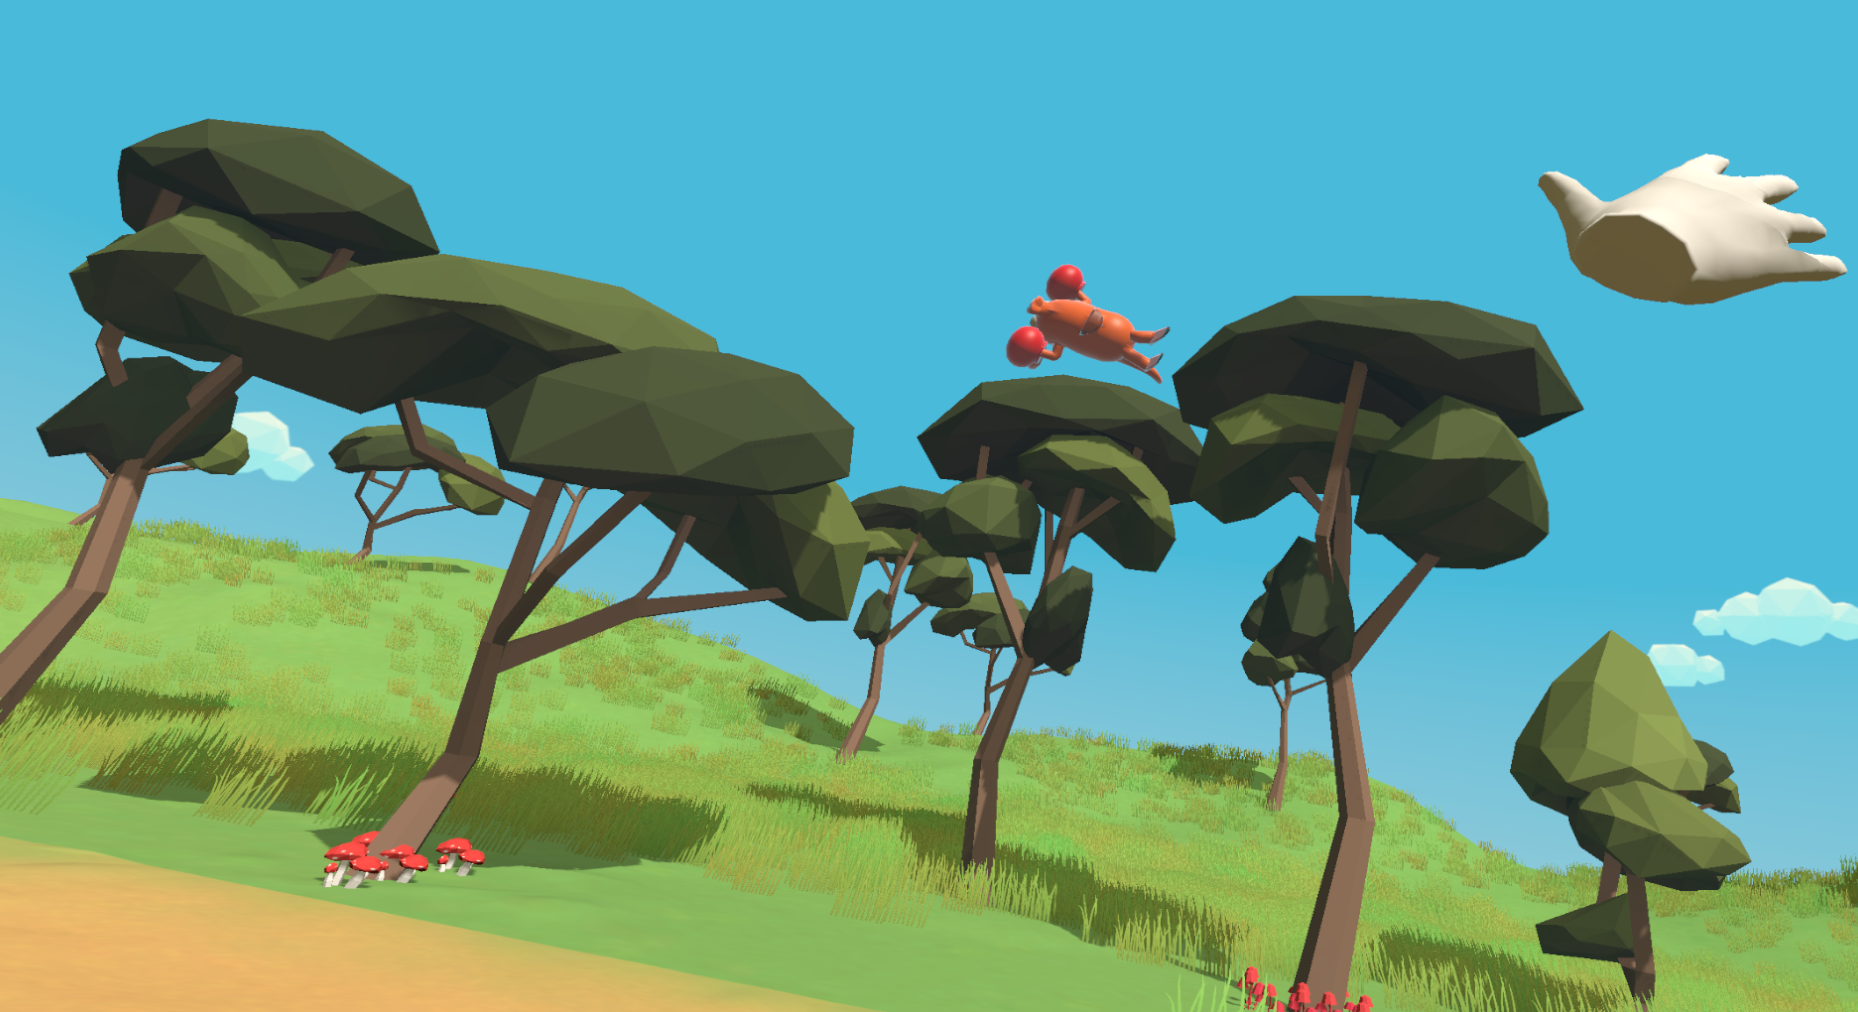
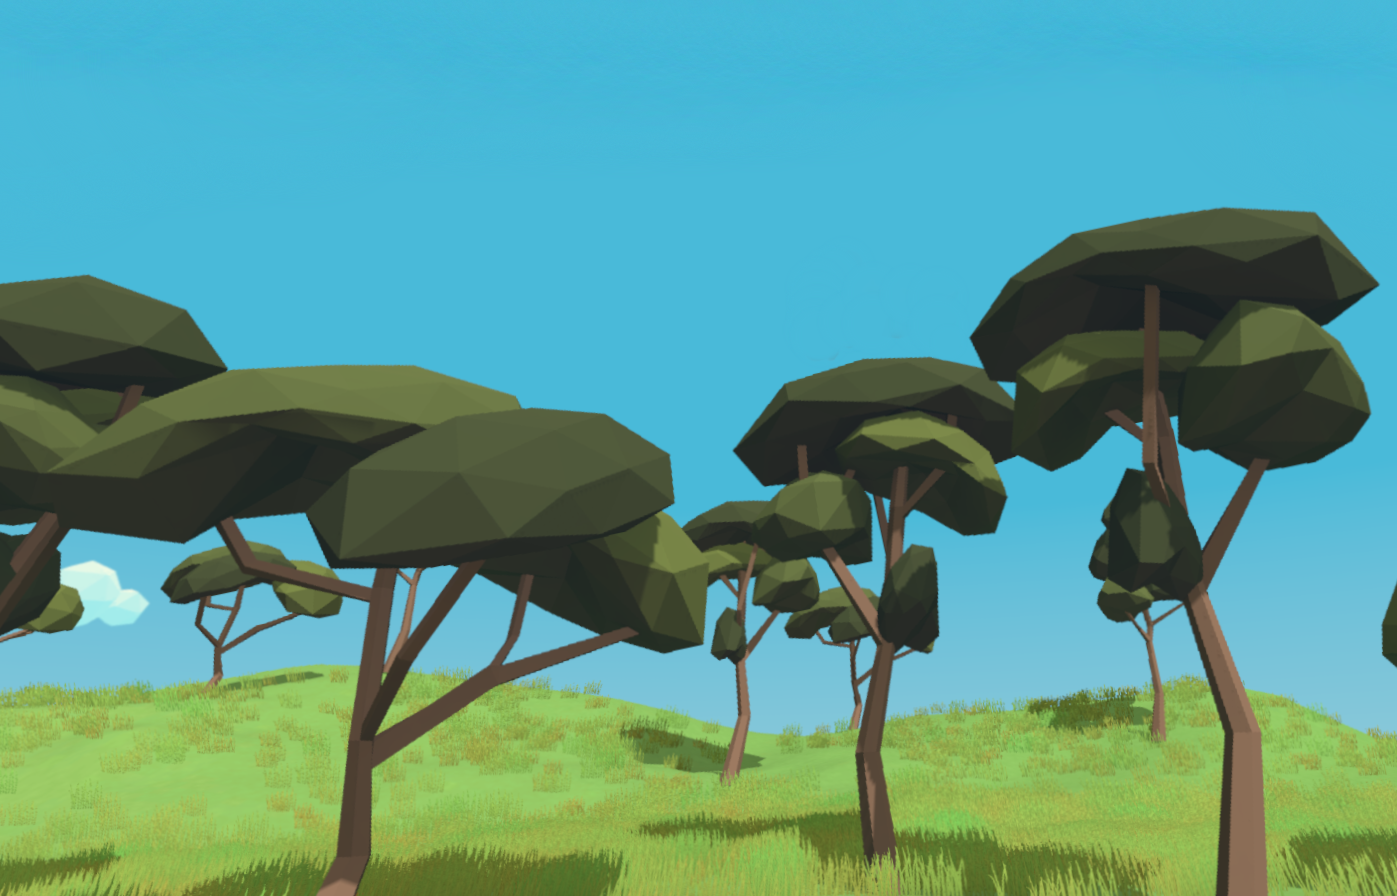
add parallax effects to home page; other minor improvements

diff --git a/index.html b/index.html
@@ -17,11 +17,13 @@
 
 <body>
     <div class="container">
-        <div class="section header">
-            <div class="logo">
-                <img src="assets/img/logo-4k.png" />
+        <div class="parallax-container">
+            <div class="section header">
+                <div class="logo">
+                    <img src="assets/img/logo-4k.png" />
+                </div>
             </div>
-            <div class="navbar">
+            <div class="section navbar">
                 <ul class="navbar__list">
                     <li class="navbar__item"><a href="index.html">Home</a></li>
                     <li class="navbar__item"><a href="about.html">About</a></li>
@@ -29,15 +31,42 @@
                     <li class="navbar__item"><a href="#">Oculus</a></li>
                 </ul>
             </div>
-        </div>
-        <div class="section home">
-            <div class="content">
-                <h1>You're trying to have a barbecue but kangaroos are trying to steal your beer!</h1>
-                <div class="kangaroo">
-                    <img src="assets/img/kangaroo.png" />
+            <div class="section home wrapper">
+                <img class="background__image" src="assets/img/background.png" alt="background">
+                <img class="foreground__image bush_back" src="assets/img/bush_back.png" alt="bush_back" />
+                <img class="foreground__image kangaroo" src="assets/img/kangaroo.png" alt="kangaroo" />
+                <img class="foreground__image bush_front" src="assets/img/bush_front.png" alt="bush_front" />
+                <div class="foreground__image text">
+                    <h1 class="home__text">You are having a barbecue but <br/><span class="emphasis">kangaroos are trying to
+                            steal your beer!</span></h1>
+                    <h2 class="home__subtext">A VR video game under-development. <br/>
+                    Release Date: probably end of 2021</h2>
+                </div>
+                <div class="foreground__image social_media">
+                    <h2 class="social_media__text">Follow the development</h2>
+                </div>
+                <div class="foreground__image mailing_list_call">
+                    <h2 class="mailing_list_call__text">Want first-hand updates?</h2>
+                    <h2 class="mailing_list_call__title">Join our mailing list!</h2>
+                    <div id="mc_embed_signup">
+                        <form action="https://gmail.us1.list-manage.com/subscribe/post?u=b6e6eca0d45fc6d605d2acc56&amp;id=e382d10be5" method="post" id="mc-embedded-subscribe-form" name="mc-embedded-subscribe-form" class="validate" target="_blank" noValidate>
+                            <div id="mc_embed_signup_scroll" class="form_item">
+                                <input type="email" name="EMAIL" class="email form_text" id="mce-EMAIL" placeholder="email address" required />
+                                <div aria-hidden="true" hidden="true">
+                                    <input type="text" name="b_b6e6eca0d45fc6d605d2acc56_e382d10be5" tabIndex="-1"/>
+                                </div>
+                                <div class="clear">
+                                    <input type="submit" value="Subscribe" name="subscribe" id="mc-embedded-subscribe" class="button" />
+                                </div>
+                            </div>
+                        </form>
+                    </div>
+                    <p class="mailing_list_call__text">We will only send emails when there are major news about the development and release of the game. Unsubscribe anytime</p>
                 </div>
             </div>
         </div>
 </body>
+
+<script id="mcjs">!function(c,h,i,m,p){m=c.createElement(h),p=c.getElementsByTagName(h)[0],m.async=1,m.src=i,p.parentNode.insertBefore(m,p)}(document,"script","https://chimpstatic.com/mcjs-connected/js/users/b6e6eca0d45fc6d605d2acc56/6d62fd77cdb4ac434928d4538.js");</script>
 
 </html>

diff --git a/assets/css/components/parallax.css b/assets/css/components/parallax.css
@@ -1,0 +1,124 @@
+:root {
+  --normal-padding: 6rem;
+  --small-padding: 3rem;
+  --smallest-padding: 1.5rem;
+}
+
+/* Helper Function */
+/* Parallax Styles */
+.parallax-container {
+    position: relative;
+    width: 100%;
+    height: 100vh;
+    overflow-x: hidden;
+    overflow-y: auto;
+    perspective: 8px;
+    perspective-origin: 0%;
+}
+
+.image, .foreground__image, .background__image {
+    position: absolute;
+    transform-origin: 0 50%;
+}
+
+.background__image {
+    transform: translateZ(0px) scale(1);
+    width: 100%;
+    position: relative;
+}
+
+.wrapper {
+    position: relative;
+}
+
+.foreground__image {
+    bottom: 0;
+    left: 0;
+    transform: translateZ(2px) scale(0.75);
+}
+
+/* text */
+.foreground__image.text {
+    top: -4rem;
+    left: var(--normal-padding);
+    width: 50%;
+    transform: translateZ(1.5px) scale(0.8);
+    z-index: 50;
+    padding: 2rem;
+}
+
+/* back bush */
+.foreground__image.bush_back {
+    bottom: 0rem;
+    transform: translateZ(2.2px) scale(0.7);
+}
+
+/* kangaroo */
+.foreground__image.kangaroo {
+    bottom: 9rem;
+    left: 5%;
+    width: 50rem;
+    z-index: 20;
+    transform: translateZ(5px) scale(0.375);
+}
+
+/* mailing list call */
+.foreground__image.mailing_list_call {
+    bottom: 20rem;
+    left: auto;
+    right: var(--normal-padding);
+    width: 60rem;
+    z-index: 20;
+    transform-origin: -135% 50%;
+    /* top: 18rem; */
+    /* transform: translateZ(-3px) scale(1.35); */
+    transform: translateZ(5px) scale(0.375);
+}
+
+/* front bush */
+.foreground__image.bush_front {
+    z-index: 30;
+}
+
+@media only screen and (max-width: 1200px) {
+
+    /* kangaroo */
+    .foreground__image.kangaroo {
+        bottom: 5%;
+        left: 5%;
+        width: 60%;
+    }
+}  
+
+
+@media only screen and (max-width: 700px) {
+    .background__image {
+        height: 120vh;
+        width: auto;
+    }
+
+    /* text */
+    .foreground__image.text {
+        top: -4rem;
+        left: 0;
+        width: 100%;
+        padding: 4rem;
+    }
+}  
+
+
+@media only screen and (max-width: 300px) {
+
+    /* text */
+    .foreground__image.text {
+        top: -4rem;
+        left: 0;
+        width: 100%;
+        padding: 3rem;
+    }
+
+    /* back bush */
+    .foreground__image.bush_back {
+        bottom: 6rem;
+    }
+}  

diff --git a/assets/css/components/mailing_list.css b/assets/css/components/mailing_list.css
@@ -1,0 +1,70 @@
+.mailing_list_call {
+    background-color: rgba(255, 255, 255, 0.6);
+    color: var(--darkGreye);
+    padding: 2rem 4rem;
+    border-radius: 2rem;
+    width: 60rem;
+}
+
+.mailing_list_call__title {
+    text-transform: uppercase;
+    font-size: 2.4em;
+    margin-top: -3rem;
+}
+
+.mailing_list_call__text {
+    font-size: 1.2em;
+}
+
+.mailing_list_call__text:last-of-type {
+    margin-bottom: 1.5rem;
+}
+
+.form_item {
+    display: flex;
+    justify-content: left;  
+    margin: 2rem 0;
+}
+
+.form_item .form_text{
+    display: block;
+    width: 80%;
+    height: 2.8rem;
+    padding: 0.5rem;
+    border: none;
+    border-radius: 10rem;
+    text-indent: 10px;
+    box-shadow: 0px 0px 0px var(--darkBlue);
+    transition: all 0.3s ease-in-out;
+}
+
+.form_item .form_text:focus {
+    outline: none;
+    box-shadow: 0px 3px 0px var(--darkBlue);
+}
+
+.form_item .button{
+    display: block;
+    width: 10rem;
+    height: 2.8rem;
+    border: none;
+    border-radius: 99px;
+    margin-left: 0.5rem;
+    background-color: var(--darkBlue);
+    color: white;
+    transform: translateY(0px);
+    transition: all 0.1s ease-in-out;
+}
+
+.form_item .button:focus{
+    outline: none;
+}
+
+.form_item .button:hover {
+    transform: translateY(-3px);
+    box-shadow: 0px 3px 3px #aaa;
+}
+
+.form_item .button:active {
+    transform: translateY(-1px);
+}

diff --git a/assets/css/sections/home.css b/assets/css/sections/home.css
@@ -1,0 +1,49 @@
+.home__text {
+    color: white;
+    font-size: 2em;
+    line-height: 1.8em;
+}
+
+.home__text .emphasis {
+    font-size: 3em;
+}
+
+.home__subtext {
+    color: white;
+    line-height: 1.4em;
+    font-size: 1.4em;
+}
+
+@media only screen and (max-width: 700px) {
+    .home__text {
+        font-size: 1.6em;
+        line-height: 1.6em;
+    }
+
+    .home__text .emphasis {
+        font-size: 2.2em;
+    }
+
+    .home__subtext {
+        color: white;
+        line-height: 1.4em;
+        font-size: 1.4em;
+    }
+}  
+
+@media only screen and (max-width: 400px) {
+    .home__text {
+        font-size: 1.4em;
+        line-height: 1.4em;
+    }
+
+    .home__text .emphasis {
+        font-size: 2em;
+    }
+
+    .home__subtext {
+        color: white;
+        line-height: 1.4em;
+        font-size: 1.4em;
+    }
+}  

diff --git a/assets/css/components/navbar.css b/assets/css/components/navbar.css
@@ -1,5 +1,12 @@
+.navbar {
+    background-color: rgba(255, 255, 255, 0.2);
+    position: sticky;
+    top: 0rem;
+    display: block; 
+    z-index: 120;
+}
+
 .navbar__list {
-    margin-top: 2rem;
     display: flex;
 }
 
@@ -7,7 +14,7 @@
     list-style-type: none;
     margin: 0;
     font-size: 1.2em;
-    padding: 1rem 2.5rem;
+    padding: 2rem 3rem;
     text-transform: uppercase;
     background-color: transparent;
     transition: all 0.3s ease-in-out;
@@ -17,3 +24,16 @@
     background-color: rgba(255, 255, 255, 0.3);
 }
 
+@media only screen and (max-width: 600px) {
+    .navbar__item {
+        font-size: 1em;
+        padding: 1rem 2rem;
+    }
+}  
+
+@media only screen and (max-width: 400px) {
+    .navbar__item {
+        font-size: 0.9em;
+        padding: 1rem 0.8rem;
+    }
+}  

diff --git a/assets/css/style.css b/assets/css/style.css
@@ -2,6 +2,9 @@
 @import url(https://fonts.googleapis.com/css?family=Open+Sans);
 @import "components/navbar.css";
 @import "components/header.css";
+@import "components/parallax.css";
+@import "components/mailing_list.css";
+@import "sections/home.css";
 
 :root {
     /* Query Sizes */
@@ -75,7 +78,6 @@ a.disable {
 }
 
 .section {
-    padding: 1.5rem 4rem;
     width: 100%;
     display: flex;
     flex-direction: column;
@@ -85,6 +87,7 @@ a.disable {
 
 .content {
     max-width: 80rem;
+    padding: 1rem 2rem;
     display: flex;
     flex-direction: column;
     align-items: center;

diff --git a/assets/css/components/header.css b/assets/css/components/header.css
@@ -1,7 +1,9 @@
-.header {
-    background-color: rgba(255, 255, 255, 0.1);
-}
-
 .logo {
     width: 45rem;
 }
+
+@media only screen and (max-width: 600px) {
+    .logo {
+        width: 80%;
+    }
+}  
